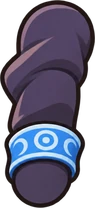
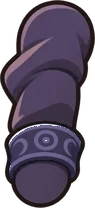
묶음 19 #152: 무기 쥔 손·들어 올린 앞팔을 전투 동작에 연결, 남자 팔찌는 앞팔에만 (손·들어 올린 팔의 팔찌는 소매로)
Claude-Session: https://claude.ai/code/session_011R5moejZv4hBtQenhMcv7F

Changed region(s): [[0.0842, 0.5769, 0.8632, 0.8654]]

diff --git a/lib/features/battle/hero_rig.dart b/lib/features/battle/hero_rig.dart
@@ -97,6 +97,23 @@ class HeroRigData {
   static const double weaponScale = 0.32;
   static const Offset weaponAttach = Offset(72, 55);
 
+  /// 묶음 19 #152: 상황에 따라 바꿔 그리는 부위 (없으면 원래 그림)
+  /// - 무기를 들면 앞손 → 무기 쥔 손 (구멍으로 무기가 지나감)
+  /// - 앞팔을 머리 위로 들면 앞팔 위쪽 → 들어 올린 앞팔
+  static const List<String> extraImages = ['hand_grip', 'arm_front_raised'];
+
+  /// 무기 쥔 손: 손목(회전축)과 주먹 가운데(무기 자리), 그림 px
+  static const Map<HeroLook, (Offset, Offset)> grip2 = {
+    HeroLook.male: (Offset(20, 69), Offset(79, 56)),
+    HeroLook.female: (Offset(18, 61), Offset(64, 51)),
+  };
+
+  /// 들어 올린 앞팔: 어깨(아래 둥근 끝)와 팔꿈치(위 둥근 끝), 그림 px
+  static const Map<HeroLook, (Offset, Offset)> raised = {
+    HeroLook.male: (Offset(40, 182), Offset(56, 25)),
+    HeroLook.female: (Offset(46, 182), Offset(49, 25)),
+  };
+
   static String partAsset(HeroLook look, String image) =>
       'assets/images/rig/hero_${look.name}_$image.webp';
   static String weaponAsset(WeaponKind k) => 'assets/images/weapon_${k.name}.webp';
@@ -293,6 +310,10 @@ class HeroRigImages {
           if (img == null) return null;
           out[name] = img;
         }
+        for (final name in HeroRigData.extraImages) {
+          final img = await _load(HeroRigData.partAsset(look, name));
+          if (img != null) out[name] = img;
+        }
         return out;
       }();
 
@@ -371,6 +392,7 @@ class _HeroRigState extends State<HeroRig> {
       child: CustomPaint(
         key: const Key('heroRig'),
         painter: HeroRigPainter(
+            look: widget.look,
             images: img.parts,
             weapon: img.weapon,
             weaponKind: widget.weapon,
@@ -384,12 +406,14 @@ class _HeroRigState extends State<HeroRig> {
 /// 뼈대대로 부위를 그린다: 세계 = 부모 × 붙는 자리 이동 × 회전 × (−회전축) 이동
 class HeroRigPainter extends CustomPainter {
   HeroRigPainter({
+    this.look = HeroLook.male,
     required this.images,
     required this.pose,
     this.weapon,
     this.weaponKind,
   });
 
+  final HeroLook look;
   final Map<String, ui.Image> images;
   final ui.Image? weapon;
   final WeaponKind? weaponKind;
@@ -422,8 +446,16 @@ class HeroRigPainter extends CustomPainter {
     }
 
     final paint = Paint()..filterQuality = FilterQuality.medium;
+    final raisedUp = pose['arm_f_up'] < HeroRigData.raisedArm;
+    // 무기를 쥐고 있으면 쥔 손 그림 (무기 자리도 주먹 가운데로)
+    final gripImg = weapon != null && weaponKind != null ? images['hand_grip'] : null;
+    final g2 = HeroRigData.grip2[look]!;
+    final handPivot = HeroRigData.byName['hand_f']!.pivot;
+    final attach = gripImg == null
+        ? HeroRigData.weaponAttach
+        : handPivot + (g2.$2 - g2.$1);
     var order = HeroRigData.order;
-    if (pose['arm_f_up'] < HeroRigData.raisedArm) {
+    if (raisedUp) {
       // 팔을 들면 앞팔·무기·앞손을 머리 뒤로
       const front = ['arm_f_up', 'arm_f_fo', 'weapon', 'hand_f'];
       final rest = [for (final n in order) if (!front.contains(n)) n];
@@ -438,7 +470,7 @@ class HeroRigPainter extends CustomPainter {
         // 무기 각도 W 는 몸통 기준 각도: 손까지 돈 만큼 빼서 손에 붙인다
         final chain = pose['arm_f_up'] + pose['arm_f_fo'] + pose['hand_f'];
         final m = worldOf('hand_f') *
-            _Aff.t(HeroRigData.weaponAttach.dx, HeroRigData.weaponAttach.dy) *
+            _Aff.t(attach.dx, attach.dy) *
             _Aff.r((pose['W'] - chain) * _deg) *
             _Aff.s(HeroRigData.weaponScale) *
             _Aff.t(-g.dx, -g.dy);
@@ -449,6 +481,36 @@ class HeroRigPainter extends CustomPainter {
         continue;
       }
       final b = HeroRigData.byName[n]!;
+      if (n == 'hand_f' && gripImg != null) {
+        // 손목을 같은 자리에 맞춰 쥔 손을 그린다
+        final m = worldOf(n) *
+            _Aff.t(handPivot.dx, handPivot.dy) *
+            _Aff.t(-g2.$1.dx, -g2.$1.dy);
+        canvas.save();
+        canvas.transform(m.storage);
+        canvas.drawImage(gripImg, Offset.zero, paint);
+        canvas.restore();
+        continue;
+      }
+      final raisedImg = images['arm_front_raised'];
+      if (n == 'arm_f_up' && raisedUp && raisedImg != null) {
+        // 들어 올린 앞팔: 어깨→팔꿈치 방향·길이를 원래 앞팔 위쪽과 맞춘다
+        final r = HeroRigData.raised[look]!;
+        final up = HeroRigData.byName['arm_f_fo']!.attach - b.pivot;
+        final rv = r.$2 - r.$1;
+        final rot = math.atan2(up.dy, up.dx) - math.atan2(rv.dy, rv.dx);
+        final sc = (up.distance / rv.distance).clamp(0.7, 1.3);
+        final m = worldOf(n) *
+            _Aff.t(b.pivot.dx, b.pivot.dy) *
+            _Aff.r(rot) *
+            _Aff.s(sc) *
+            _Aff.t(-r.$1.dx, -r.$1.dy);
+        canvas.save();
+        canvas.transform(m.storage);
+        canvas.drawImage(raisedImg, Offset.zero, paint);
+        canvas.restore();
+        continue;
+      }
       final img = images[b.image];
       if (img == null) continue;
       canvas.save();
@@ -461,7 +523,10 @@ class HeroRigPainter extends CustomPainter {
 
   @override
   bool shouldRepaint(covariant HeroRigPainter old) =>
-      old.pose != pose || old.weapon != weapon || old.images != images;
+      old.pose != pose ||
+      old.weapon != weapon ||
+      old.images != images ||
+      old.look != look;
 }
 
 /// 2D 아핀 변환 [a b c; d e f] (뼈대 계산용)
